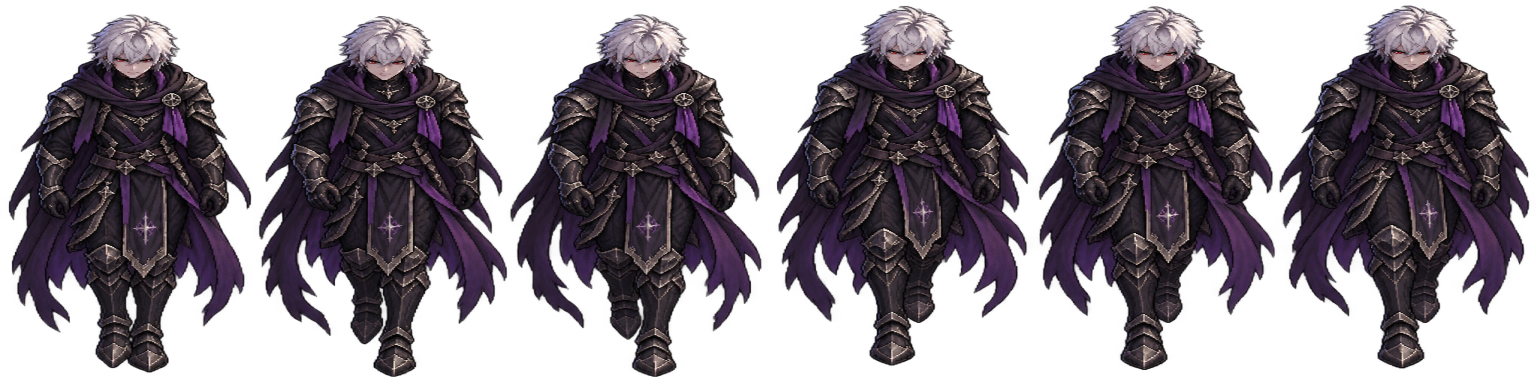
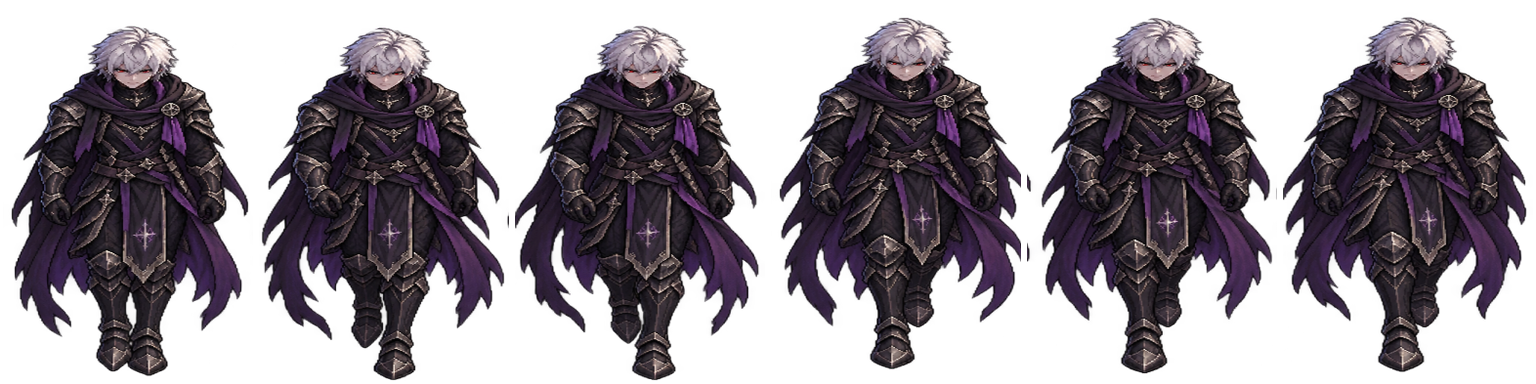
Normalize hero strip baselines and cell edges (BUG-021, partial)
Align each strip's feet to its hero's idle baseline and keep every frame
off the 256x384 cell border, using one scale and one offset per strip.
27 strips across Bromnor, Kayron, Korrak, Maelor and Sylas; edge frames
now 0 for all ten heroes. Height between directions is not addressed.

Changed region(s): [[0.0, 0.0, 1.0, 1.0]]

diff --git a/.atena/specs/SPEC-112-normalizacao-base-e-bordas-dos-herois.md b/.atena/specs/SPEC-112-normalizacao-base-e-bordas-dos-herois.md
@@ -1,0 +1,33 @@
+---
+id: "SPEC-112"
+title: "Normalização de linha de base e bordas das tiras dos heróis"
+status: "executada em 2026-10-01; aguarda playtest"
+created: "2026-10-01"
+relations:
+  - "[[SPEC-101-polimento-proporcoes-movimento-herois]]"
+  - "[[SPEC-102-piloto-runtime-escala-direcional-durvall]]"
+  - "[[EVID-139-playtest-higor-qa-14b15e4-2026-10-01]]"
+  - "[[EVID-140-normalizacao-base-e-bordas-dos-herois-2026-10-01]]"
+---
+
+# SPEC-112 — Normalização de linha de base e bordas (BUG-021, caminho 2)
+
+## Intenção
+Corrigir só o que é objetivo nas tiras de `assets/animations/heroes/`: base dos pés
+alinhada à do `idle` do mesmo herói e nenhum quadro tocando a borda da célula 256×384.
+
+## Não objetivos
+- **Não** igualar a altura entre tiras. A escala de cada tira veio do encaixe de
+  `normalize_animation_grid_fit.gd` (caixa 232×360); sem os originais e só pela caixa de alfa
+  não dá para recuperar o tamanho real do corpo (mesma causa da reprovação da SPEC-102).
+  Isso fica para o caminho 1 (medir o corpo) ou regeneração.
+
+## Método — `tools/normalize_hero_baseline_edges.gd`
+- Alvo de base por herói: mediana da base do `idle` (máx. 376).
+- Por tira: **uma** escala (só reduz, mínimo ~0,977) e **um** deslocamento, calculados pela
+  caixa de todos os quadros com margem de 3 px. Movimento interno preservado.
+- Só grava tiras com base fora do alvo (> 2 px) ou quadro na borda. Padrão é relatório; `--write` grava.
+- Reversão: `git checkout -- assets/animations/heroes`.
+
+## Aceite
+`edge_frames` = 0 em todo o elenco; `tests/run_all.gd` sem falhas; pares antes/depois sem corte.

diff --git a/.atena/evidence/EVID-140-normalizacao-base-e-bordas-dos-herois-2026-10-01.md b/.atena/evidence/EVID-140-normalizacao-base-e-bordas-dos-herois-2026-10-01.md
@@ -1,0 +1,23 @@
+# EVID-140 — Normalização de base e bordas dos heróis (2026-10-01)
+
+SPEC: [[SPEC-112-normalizacao-base-e-bordas-dos-herois]] · Origem: BUG-021 / EVID-139 IN-044.
+
+## Resultado
+- 27 tiras regravadas em 5 heróis: Bromnor 5, Kayron 6, Korrak 5, Maelor 5, Sylas 6.
+  Brook, Durvall, Leoric, Nyrelia e Zynara não precisaram de alteração.
+- `edge_frames`: antes 1–6 em Bromnor, Kayron, Korrak, Maelor e Sylas; **depois 0 em todos os dez heróis**.
+- Escala aplicada ≥ 0,977 (redução máxima de 2,3 %).
+- Base por herói depois: Korrak 350 em todas; Sylas 376–377; Kayron 371–377; Bromnor 363–369.
+- `tests/run_all.gd`: `testes: 0 falha(s)`.
+
+## Pendências (não resolvidas por este passo)
+- **Maelor** `move_n` (379) e `move_e` (373) ficam acima de 10 px da base do idle (364): conteúdo alto demais
+  para subir sem cortar. Candidato a regeneração.
+- **Tamanho entre direções** (o "estica/afina"): inalterado. Brook 245–360, Durvall 226–368, Leoric 215–313.
+  Depende do caminho 1 (medir o corpo) ou regeneração.
+
+## Imagem
+![Antes (linha de cima) e depois (linha de baixo), quadro 2 de cada tira](EVID-140-herois-base-e-bordas-antes-depois.png)
+
+Ordem: Bromnor, Kayron, Korrak, Maelor, Sylas; colunas idle, n, ne, e, se, s. Linha dourada = base 376.
+Os PNGs oficiais mudaram: os hashes de `ASSET-OFFICIAL-LOCK-*` desses 27 arquivos divergem e o lock não foi regerado.
